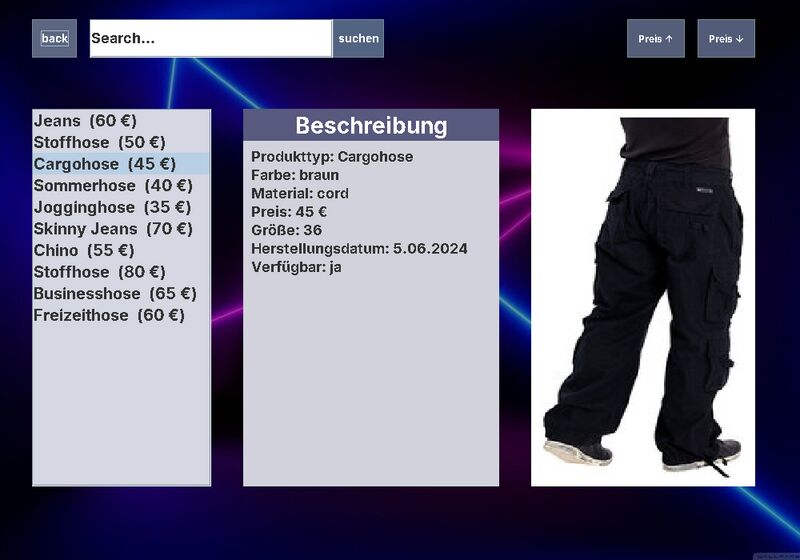
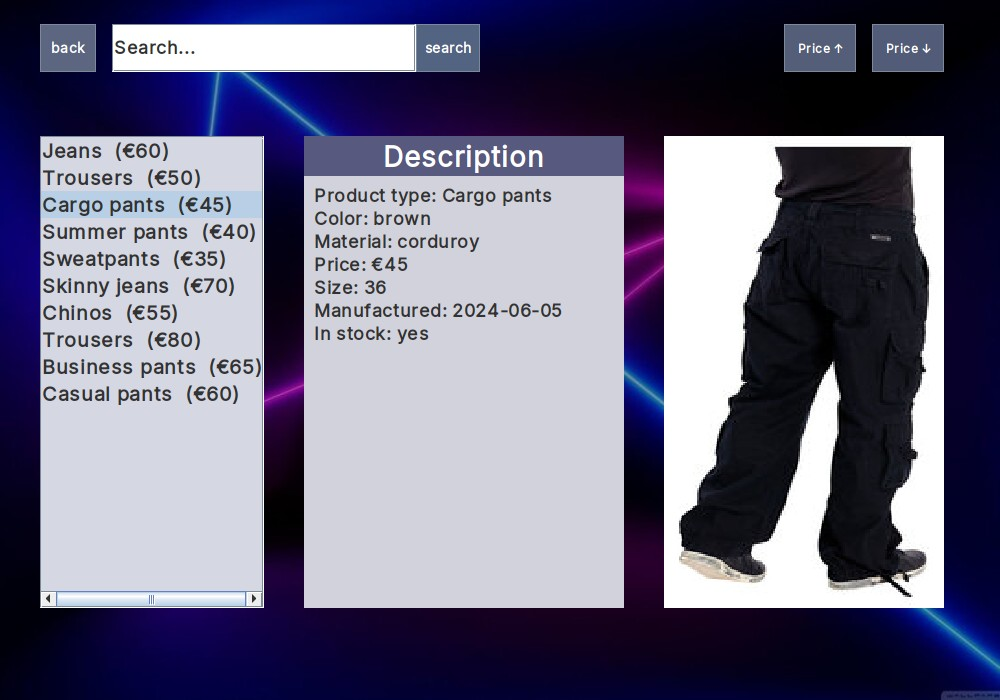
Replace screenshot with the English UI, add a quick tour GIF

diff --git a/README.md b/README.md
@@ -24,6 +24,12 @@ I originally wrote it for a computer science course at school and later refactor
 - Product details with a matching picture for every category
 - Custom background images
 
+## A quick tour
+
+Choosing a category, opening a product, sorting by price and searching for "black":
+
+<img src="media/demo.gif" width="720" alt="Clicking through categories, product details, sorting and search" />
+
 ## Quick start
 
 You need a JDK (tested with Java 21) and a desktop environment, since this is a GUI app.
